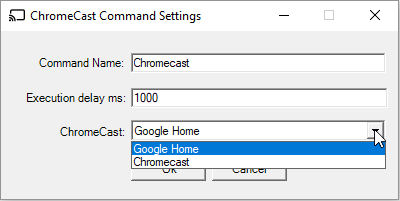
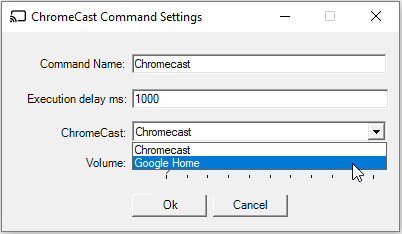
Update readme.md

Changed region(s): [[0.0, 0.0, 1.0, 1.0], [0.69, 0.0597, 0.72, 0.0896]]

diff --git a/readme.md b/readme.md
@@ -12,6 +12,8 @@ Execution delay - a delay before command starts its execution.
 
 ChromeCast - chrome cast name in current network.
 
+Volume - optional volume override
+
 You also need to supply the following command parameters:
 
 1. VideoId - YouTube video id (e.g for https://www.youtube.com/watch?v=2MpUj-Aua48, videoId = 2MpUj-Aua48)
